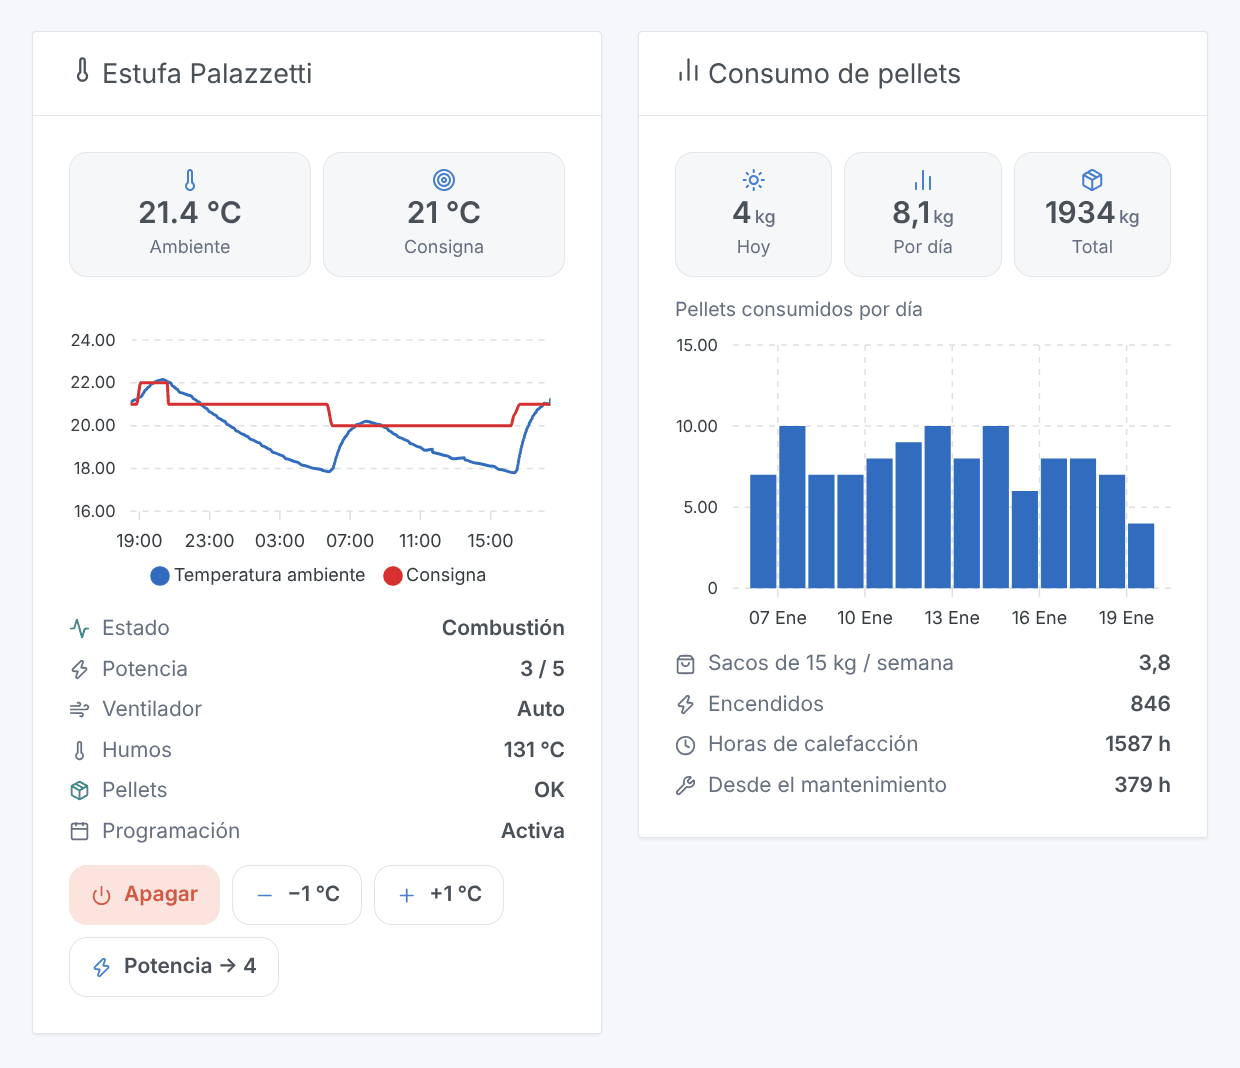
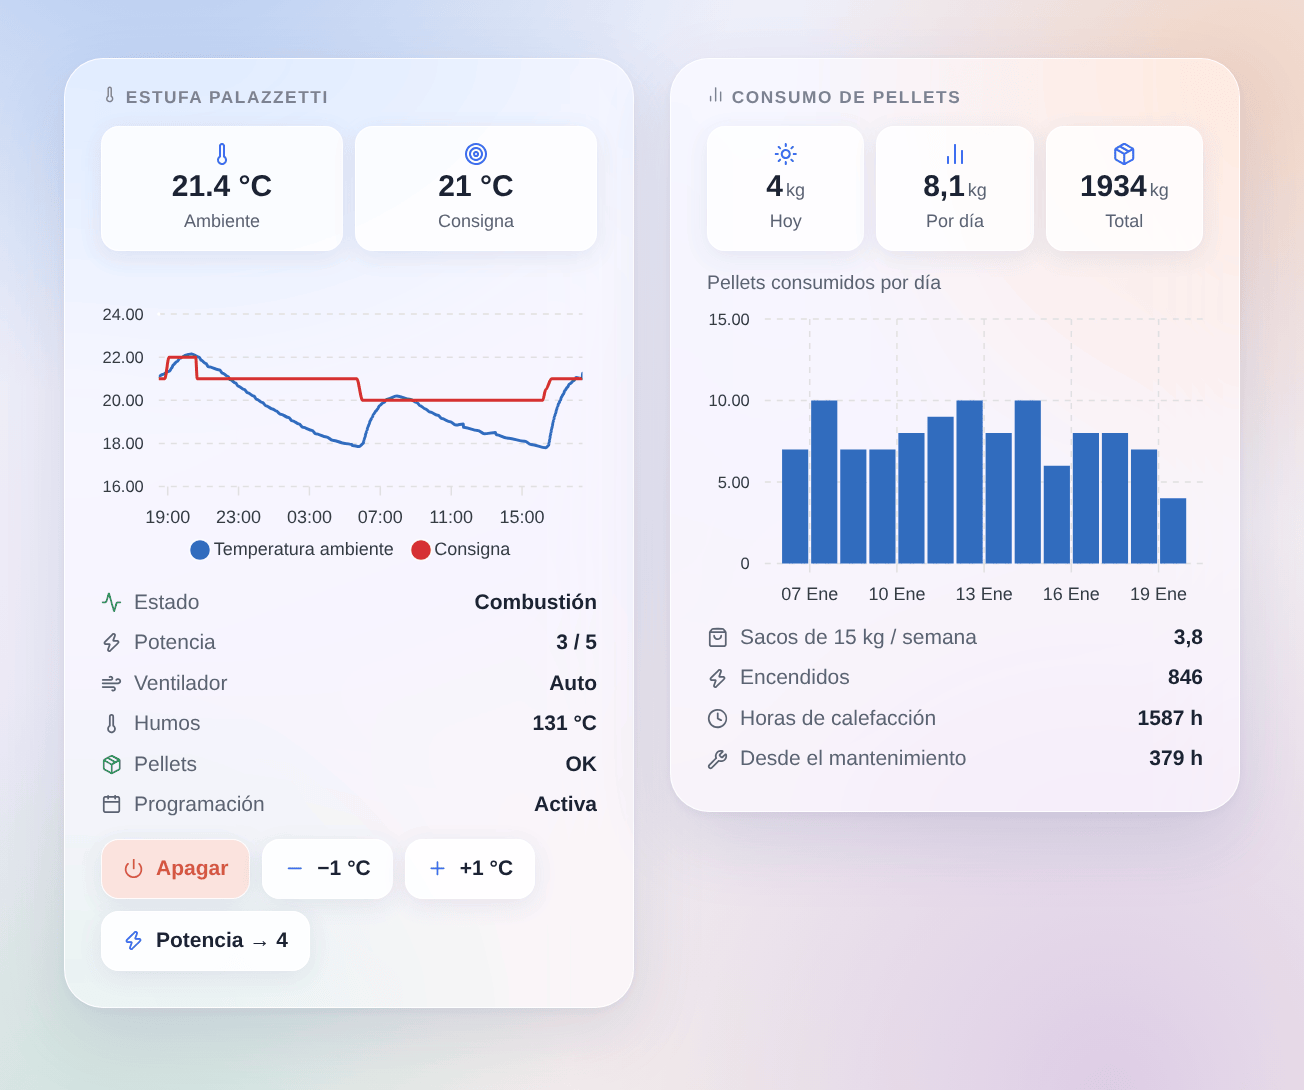
docs: widget illustrations in the Gladys 5 look (Horizon glass dashboard)
The illustrations used the Gladys v4 card look. render.sh now takes the styles of the current Gladys front, adds the Horizon dashboard theme (glass cards, uppercase title, default scene) and quantizes with libimagequant so the small colored dots survive the gradient.

diff --git a/docs/illustrations/style.css b/docs/illustrations/style.css
@@ -1,9 +1,25 @@
-/* The page around the cards: the dashboard background and two columns of the
+/* The page around the cards: the dashboard scene (#stage) and two columns of the
    width of a Gladys dashboard column. The cards themselves use the official
    theme and the widget styles of the Gladys front (render.sh fetches them). */
 body {
-  background: #f5f7fb;
-  padding: 24px;
+  background: #fff;
+  margin: 0;
+  padding: 8px;
+}
+
+/* the page header of the theme shares the class name of the widget header
+   slot (a CSS module class in Gladys): keep it off the widget */
+.card .header {
+  padding: 0;
+  background: none;
+  border-bottom: 0;
+}
+
+/* the dashboard scene, a margin around the cards for their shadow */
+#stage {
+  display: inline-block;
+  overflow: hidden;
+  padding: 40px 44px 56px;
 }
 
 #row {

diff --git a/docs/illustrations/index.html b/docs/illustrations/index.html
@@ -5,12 +5,13 @@
     <link rel="stylesheet" href="vendor/theme/package/dashboard.css" />
     <link rel="stylesheet" href="widget.css" />
     <link rel="stylesheet" href="dark-mode.css" />
+    <link rel="stylesheet" href="horizon.css" />
     <link rel="stylesheet" href="style.css" />
     <script src="vendor/apexcharts/package/dist/apexcharts.min.js"></script>
     <script src="data.js"></script>
   </head>
   <body>
-    <div id="row"></div>
+    <div id="stage" class="glass-theme glassScene"><div id="row"></div></div>
     <script>
       if (new URLSearchParams(location.search).get('theme') === 'dark') {
         document.documentElement.classList.add('dark-mode');
